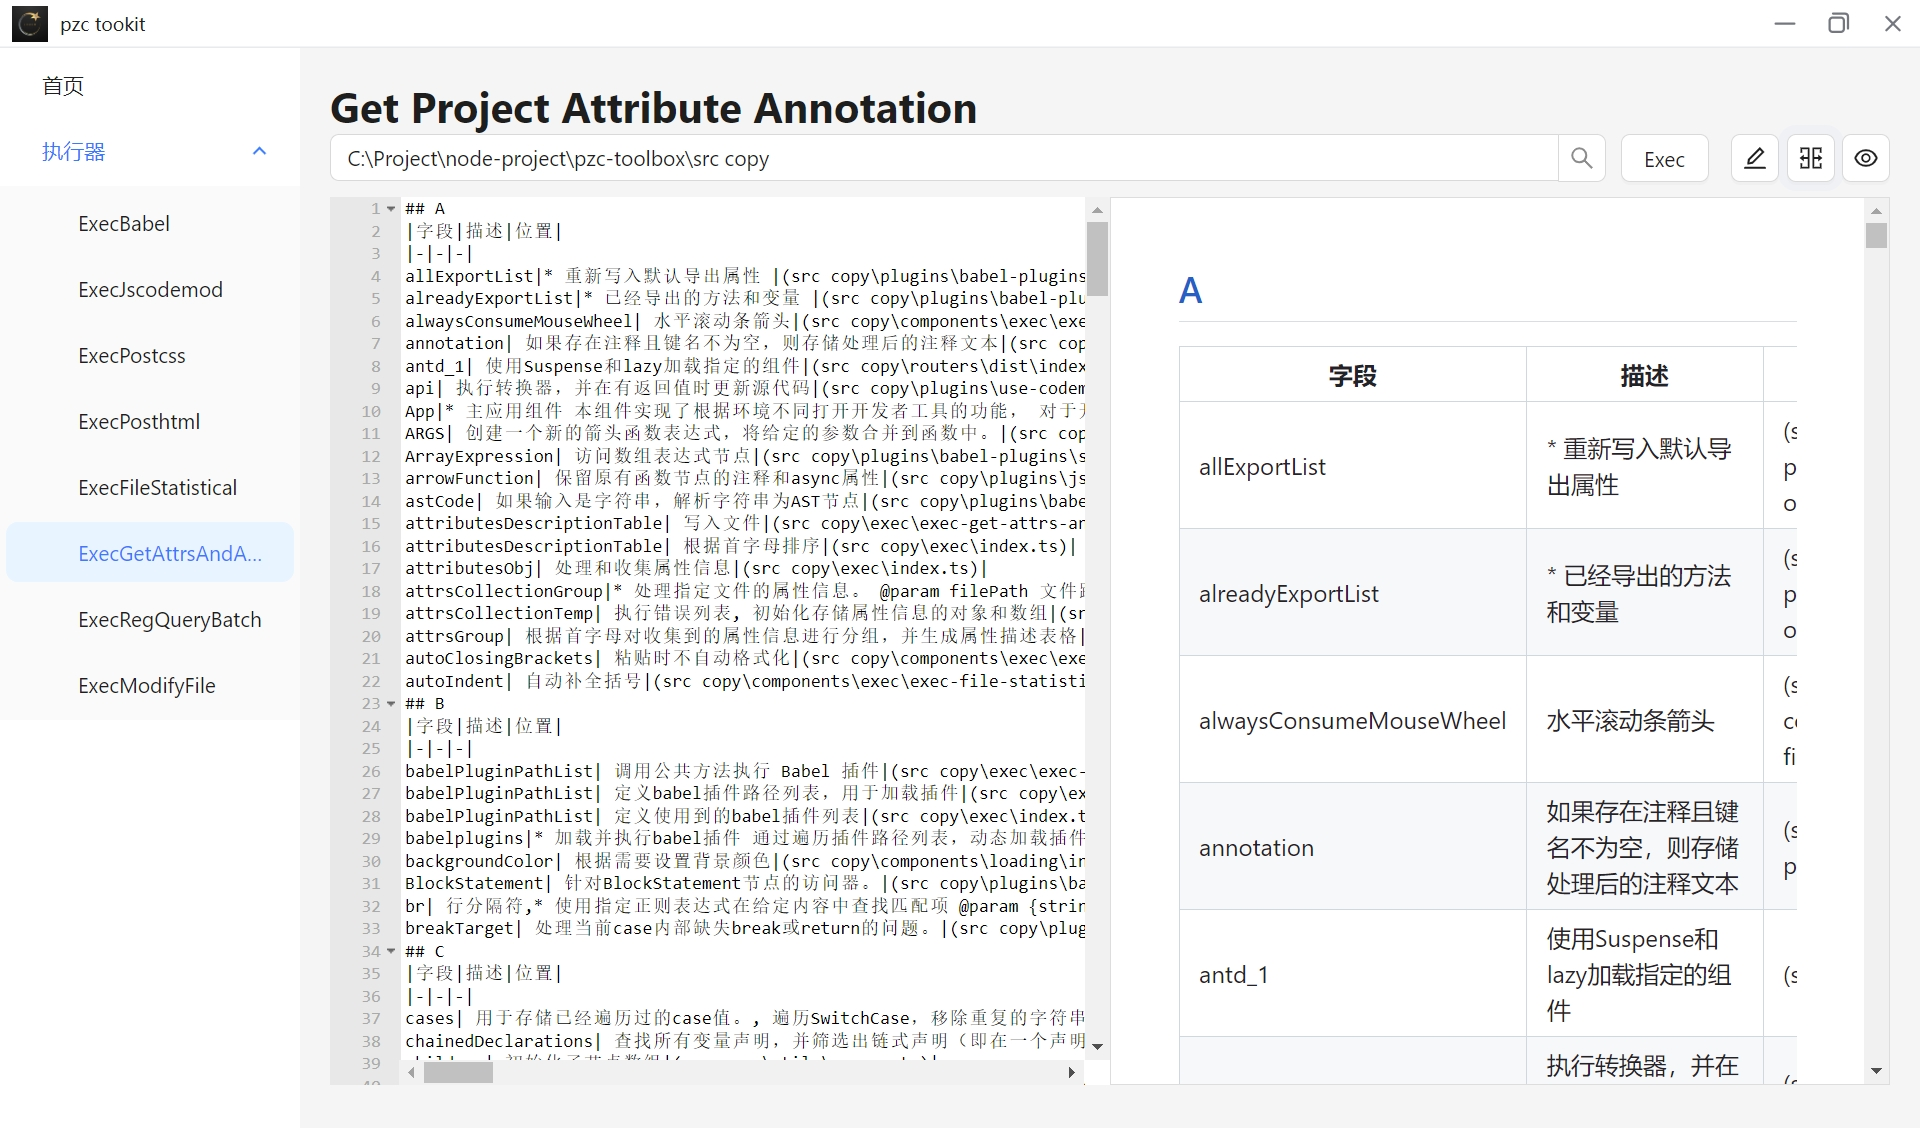
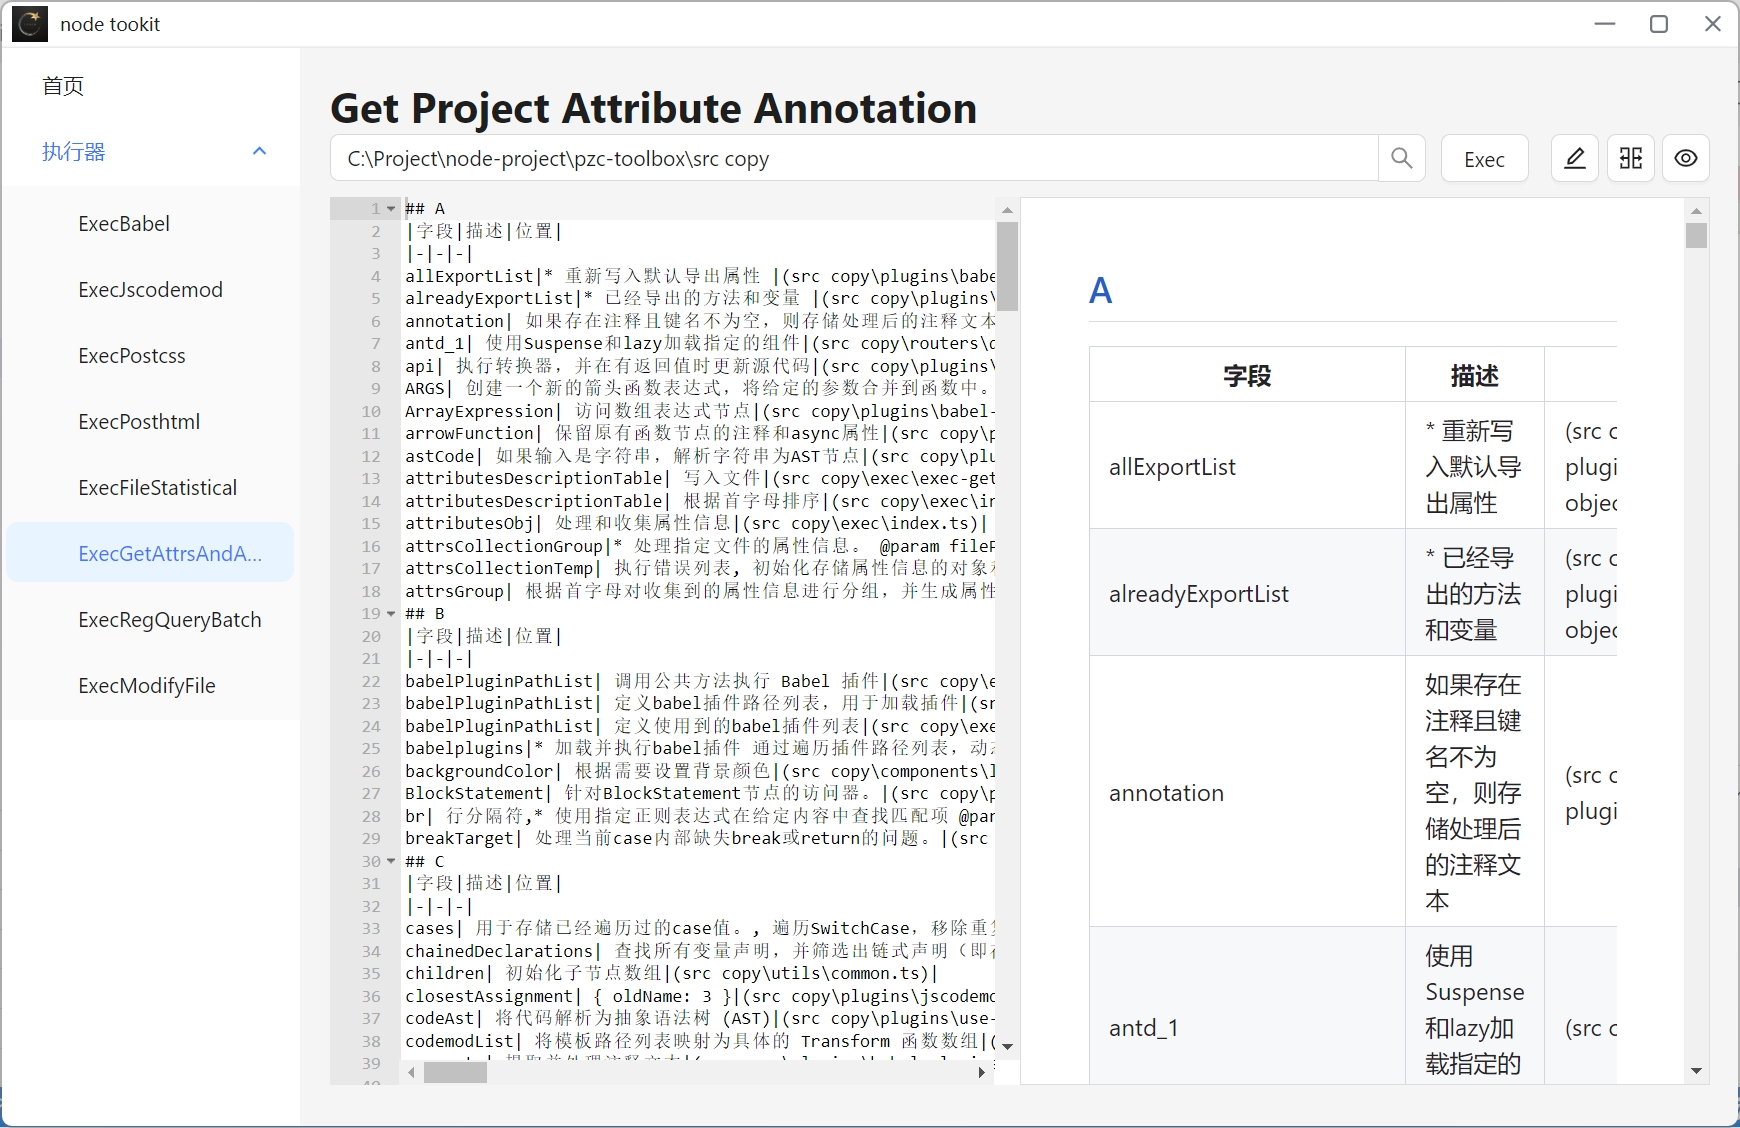
docs(md): 文档描述变更

diff --git a/src/components/desktop-header/index.tsx b/src/components/desktop-header/index.tsx
@@ -3,7 +3,6 @@ import React, { memo, useState, useEffect } from 'react'
 import SvgIcon from '@src/components/svg-icon'
 import { ipcRendererSend, ipcRendererOn, ipcRendererRemoveListener } from '@src/utils/desktop-utils'
 import logoImage from '@assets/images/logo.png'
-
 /**
  * DesktopHeader组件用于渲染桌面头部栏。
  * 该组件通过ipcRenderer与主进程进行通信，获取和设置窗口最大化状态，并提供窗口最小化、最大化和关闭功能。
@@ -26,36 +25,38 @@ function DesktopHeader() {
   }
 
   return (
-    <div className="desktop-header">
-      <div className="header-logo-box">
-        <img src={logoImage} alt="pzc tookit" />
-        <span>pzc tookit</span>
-      </div>
-      <div className="header-handle-box">
-        <div className="handle-icon-box" onClick={() => handleWindowOperation('min')}>
-          <SvgIcon svgName="min-icon" needPointer iconColor="#737780" iconSize={24} />
+    <div>
+      <div className="desktop-header">
+        <div className="header-logo-box">
+          <img src={logoImage} alt="node tookit" />
+          <span>node tookit</span>
         </div>
-        {windowIsMax ? (
-          <div className="handle-icon-box" onClick={() => handleWindowOperation('restore')}>
-            <SvgIcon svgName="restore-icon" needPointer iconColor="#737780" iconSize={24} />
+        <div className="header-handle-box">
+          <div className="handle-icon-box" onClick={() => handleWindowOperation('min')}>
+            <SvgIcon svgName="min-icon" needPointer iconColor="#737780" iconSize={24} />
           </div>
-        ) : (
-          <div className="handle-icon-box" onClick={() => handleWindowOperation('max')}>
-            <SvgIcon svgName="max-icon" needPointer iconColor="#737780" iconSize={24} />
+          {windowIsMax ? (
+            <div className="handle-icon-box" onClick={() => handleWindowOperation('restore')}>
+              <SvgIcon svgName="restore-icon" needPointer iconColor="#737780" iconSize={24} />
+            </div>
+          ) : (
+            <div className="handle-icon-box" onClick={() => handleWindowOperation('max')}>
+              <SvgIcon svgName="max-icon" needPointer iconColor="#737780" iconSize={24} />
+            </div>
+          )}
+          <div
+            className="handle-icon-box handle-close-icon"
+            onClick={() => handleWindowOperation('close')}
+          >
+            <SvgIcon
+              svgName="close-icon"
+              needPointer
+              hasHover
+              iconColor="#737780"
+              hoverColor="#fff"
+              iconSize={24}
+            />
           </div>
-        )}
-        <div
-          className="handle-icon-box handle-close-icon"
-          onClick={() => handleWindowOperation('close')}
-        >
-          <SvgIcon
-            svgName="close-icon"
-            needPointer
-            hasHover
-            iconColor="#737780"
-            hoverColor="#fff"
-            iconSize={24}
-          />
         </div>
       </div>
     </div>

diff --git a/src/desktop/main-window.ts b/src/desktop/main-window.ts
@@ -25,7 +25,7 @@ function createMainWindow(): void {
     minWidth: 960,
     show: false,
     frame: false,
-    title: 'pzc tookit',
+    title: 'node tookit',
     webPreferences: {
       nodeIntegration: true,
       preload: path.resolve(__dirname, '../utils/context-bridge.js')

diff --git a/src/desktop/system-tray.ts b/src/desktop/system-tray.ts
@@ -45,7 +45,7 @@ function initTray(): void {
   ])
 
   // 设置Tray的提示文字和上下文菜单
-  tray.setToolTip('pzc tookit')
+  tray.setToolTip('node tookit')
   tray.setContextMenu(contextMenu)
 
   // 绑定Tray点击事件，如果主窗口存在，则显示主窗口

diff --git a/README.md b/README.md
@@ -1,4 +1,4 @@
-## **PZC 工具箱概览：**
+## **node 工具箱概览：**
 
 工具箱是一个前端开发辅助工具集，它包含了以下组件：
 
